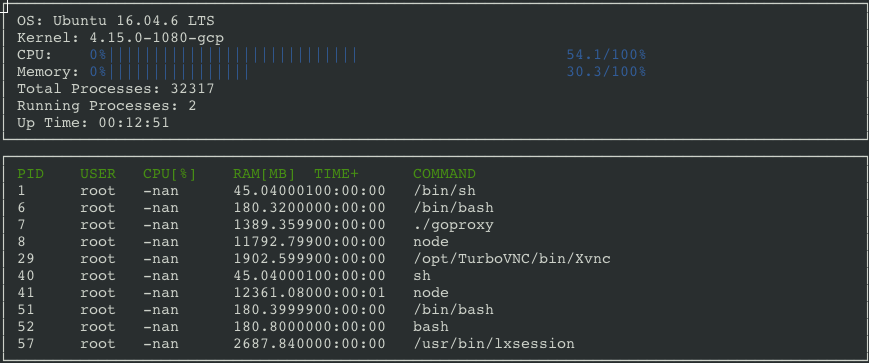
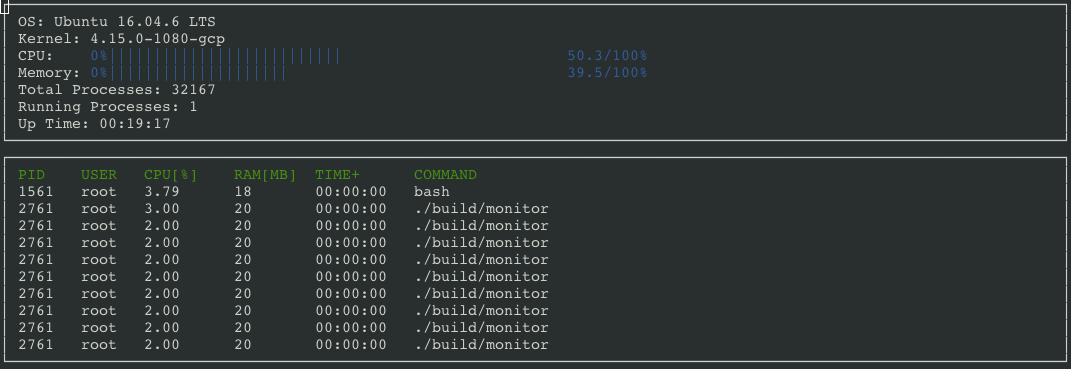
Fixed cpuUtilization issue | TODO: Fix timing for processes

diff --git a/proj02/src/linux_parser.cpp b/proj02/src/linux_parser.cpp
@@ -4,6 +4,7 @@
 #include <string>
 #include <vector>
 #include <iostream>
+#include <iomanip>
 
 #include "linux_parser.h"
 
@@ -137,12 +138,12 @@ long LinuxParser::ActiveJiffies(int pid) {
     }
   }
   
-  if (values.size() > 16) {
+  if (values.size() > 21) {
     // 13 - user
     // 14 - kernel
     // 15 - child_user
     // 16 - child_kernel
-    return 99; //stol(values[13]) + stol(values[14]) + stol(values[15]) + stol(values[16]);
+    return stol(values[13]) + stol(values[14]) + stol(values[15]) + stol(values[16]);
   }
   
   return 0;
@@ -178,7 +179,7 @@ vector<string> LinuxParser::CpuUtilization() {
   string line;
   string key;
   string value;
-  std::vector<string> cpuTimes{};
+  std::vector<string> cpuTimes;
 
   std::ifstream filestream(kProcDirectory + kStatFilename);
   if (filestream.is_open()) {
@@ -186,17 +187,17 @@ vector<string> LinuxParser::CpuUtilization() {
       std::istringstream linestream(line);
       while (linestream >> key) {
         if (key == "cpu") {
-          while (linestream >> value) {
-            cpuTimes.push_back(value);
+          while (linestream >> value) { 
+            cpuTimes.push_back(value); 
           }
+          return cpuTimes;
         }
       }
     }
-    return cpuTimes;
   }
   
   // return default value
-  return {};
+  return cpuTimes;
 }
 
 // Read and return the total number of processes
@@ -270,14 +271,13 @@ string LinuxParser::Ram(int pid) {
       std::istringstream linestream(line);
       while (linestream >> key >> value) {
         if (key == "VmSize:") {
-          float ramValue = stof(value) / 100.0;
-          return to_string(ramValue);
+          return to_string(stoi(value) / 1024);
         }
       }
     }
   }
 
-  return string();
+  return "";
 }
 
 // Read and return the user ID associated with a process
@@ -320,7 +320,7 @@ string LinuxParser::User(int pid) {
   return "";
 }
 
-// Read and return the uptime of a process
+// TODO: Read and return the uptime of a process
 long int LinuxParser::UpTime(int pid) { 
   string line;
   string value;

diff --git a/proj02/src/process.cpp b/proj02/src/process.cpp
@@ -16,7 +16,7 @@ Process::Process(int pid) : pid_(pid) {}
 int Process::Pid() { return pid_; }
 
 // Return this process's CPU utilization
-float Process::CpuUtilization() { return cpu_; }
+float Process::CpuUtilization() const { return cpu_; }
 
 void Process::CpuUtilization(long currActive, long currSystem) {
   long active{currActive - prevActive};
@@ -26,7 +26,6 @@ void Process::CpuUtilization(long currActive, long currSystem) {
   prevSystem = currSystem;
   
   cpu_ = static_cast<float>(active) / system;
-  
 }
 
 // Return the command that generated this process
@@ -42,6 +41,11 @@ string Process::User() { return LinuxParser::User(Pid()); }
 long int Process::UpTime() { return LinuxParser::UpTime(Pid()); }
 
 // Overload the "less than" comparison operator for Process objects
-bool Process::operator<(Process& a) { 
+bool Process::operator<(const Process& a) const { 
   return CpuUtilization() < a.CpuUtilization(); 
+}
+
+// Overload the "greater than" comparison operator for Process objects
+bool Process::operator>(const Process& a) const { 
+  return CpuUtilization() > a.CpuUtilization(); 
 }

diff --git a/proj02/include/system.h b/proj02/include/system.h
@@ -10,14 +10,14 @@
 
 class System {
  public:
-  Processor& Cpu();                   
-  std::vector<Process>& Processes();  
-  float MemoryUtilization();          
-  long UpTime();                      
-  int TotalProcesses();               
-  int RunningProcesses();             
-  std::string Kernel();               
-  std::string OperatingSystem();      
+  Processor& Cpu();
+  std::vector<Process>& Processes();
+  float MemoryUtilization();
+  long UpTime();
+  int TotalProcesses();
+  int RunningProcesses();
+  std::string Kernel();
+  std::string OperatingSystem();
 
   // Define any necessary private members
  private:

diff --git a/proj02/include/process.h b/proj02/include/process.h
@@ -14,15 +14,16 @@ class Process {
   int Pid();
   std::string User();
   std::string Command();
-  float CpuUtilization();
+  float CpuUtilization() const;
   void CpuUtilization(long currActive, long currSystem);
   std::string Ram();
   long int UpTime();
-  bool operator<(Process& a);
+  bool operator<(const Process& a) const;
+  bool operator>(const Process& a) const;
 
   // Declare any necessary private members
  private:
-  int pid_; // initialized to invalid PID value
+  int pid_;
   float cpu_{0};
   long prevActive{0};
   long prevSystem{0};

diff --git a/proj02/include/processor.h b/proj02/include/processor.h
@@ -1,15 +1,16 @@
 #ifndef PROCESSOR_H
 #define PROCESSOR_H
 
-#include <vector>
 #include "linux_parser.h"
 
 class Processor {
  public:
-  float Utilization();  // TODO: See src/processor.cpp
+  float Utilization();  // See src/processor.cpp
 
+  // Declare any necessary private members
  private:
-  float idle_, totaltime_;
+  long prevActiveJiffies{0};
+  long prevIdleJiffies{0};
 };
 
 #endif

diff --git a/proj02/src/system.cpp b/proj02/src/system.cpp
@@ -30,7 +30,7 @@ vector<Process>& System::Processes() {
     proc.CpuUtilization(LinuxParser::ActiveJiffies(proc.Pid()), LinuxParser::Jiffies());
   }
   
-  // TODO: Need to sort processes based on CPU Util
+  std::sort(processes_.begin(), processes_.end(), std::greater<Process>());
   
   return processes_;
 }
